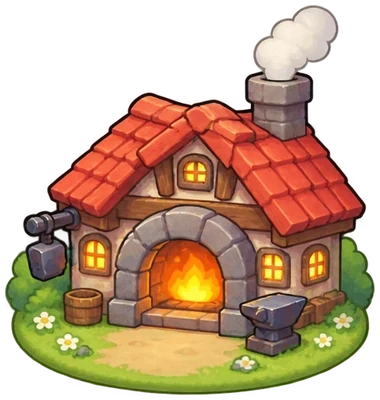
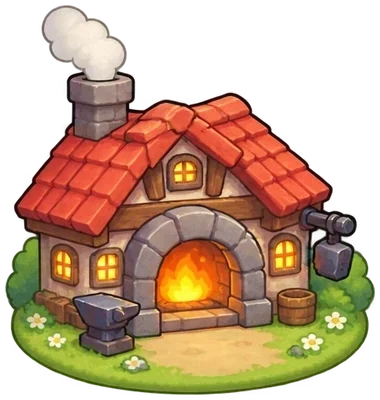
[Style] Village Buildings One-Third Size, Flip Hearth And Mine
Claude-Session: https://claude.ai/code/session_01CpQy9VtBa6mJVcF3Go5toG

diff --git a/index.html b/index.html
@@ -1295,15 +1295,15 @@
   /* (관리자 시험) 정령 마을 · 광산 */
   .vl-title{display:flex; align-items:center; gap:8px; margin:2px 0 8px;} .vl-title b{font-size:20px;} .vl-test{font-size:10px; font-weight:800; color:#ffb057; border:1px solid #ffb05766; border-radius:999px; padding:1px 7px;}
   .vl-town{position:relative; aspect-ratio:3/4; border-radius:20px; overflow:hidden; border:2px solid var(--line); box-shadow:inset 0 2px 0 #ffffff14, 0 4px 0 #0000004d; background:#7cc36a url(assets/village/vl_bg.webp) center/cover no-repeat;}
-  .vl-bld{position:absolute; width:44%; display:flex; flex-direction:column; align-items:center; cursor:pointer; -webkit-tap-highlight-color:transparent;}
+  .vl-bld{position:absolute; width:15%; display:flex; flex-direction:column; align-items:center; cursor:pointer; -webkit-tap-highlight-color:transparent;}
   .vl-img{width:100%; height:auto; display:block; filter:drop-shadow(0 3px 2px #0005); pointer-events:none;} .vl-bld:not(.lock):active .vl-img{transform:scale(.96);}
   .vl-bld.lock{cursor:default;}
-  .vl-sign{margin-top:-10px; position:relative; padding:2px 9px; border-radius:8px; background:#fff6dc; color:#4a3220; border:2px solid #6a4a2a; font-size:12px; font-weight:800; white-space:nowrap; box-shadow:0 2px 0 #0004; display:flex; align-items:center; gap:3px;}
-  .vl-sign i{font-style:normal; color:#b4572a; font-size:11px;} .vl-sign .uic{width:15px !important; height:15px !important;}
+  .vl-sign{margin-top:-4px; position:relative; padding:1px 6px; border-radius:7px; background:#fff6dc; color:#4a3220; border:2px solid #6a4a2a; font-size:10.5px; font-weight:800; white-space:nowrap; box-shadow:0 2px 0 #0004; display:flex; align-items:center; gap:2px;}
+  .vl-sign i{font-style:normal; color:#b4572a; font-size:10px;} .vl-sign .uic{width:13px !important; height:13px !important;}
   .vl-bld.lock .vl-sign{background:#e6e0d0; color:#6a6050; border-color:#8a8070;}
-  .vl-st{margin-top:2px; font-size:10.5px; font-weight:800; color:#fff; text-shadow:0 1px 2px #000, 0 0 3px #000;}
-  .vl-bub{position:absolute; top:-6%; left:50%; z-index:2; width:34px; height:34px; margin-left:-17px; border-radius:50% 50% 50% 8%; transform:rotate(-45deg); background:#fff; border:2px solid #4a3220; display:flex; align-items:center; justify-content:center; font-size:17px; box-shadow:0 3px 0 #0005; animation:vlBob 1.4s ease-in-out infinite;}
-  .vl-bub > *{transform:rotate(45deg);} .vl-bub{line-height:1;} .vl-bub .uic{width:20px !important; height:20px !important;}
+  .vl-st{margin-top:1px; font-size:10px; white-space:nowrap; font-weight:800; color:#fff; text-shadow:0 1px 2px #000, 0 0 3px #000;}
+  .vl-bub{position:absolute; top:-30px; left:50%; z-index:2; width:28px; height:28px; margin-left:-14px; border-radius:50% 50% 50% 8%; transform:rotate(-45deg); background:#fff; border:2px solid #4a3220; display:flex; align-items:center; justify-content:center; font-size:17px; box-shadow:0 3px 0 #0005; animation:vlBob 1.4s ease-in-out infinite;}
+  .vl-bub > *{transform:rotate(45deg);} .vl-bub{line-height:1;} .vl-bub .uic{width:17px !important; height:17px !important;}
   .vl-bub.hot{background:#ffe27a; border-color:#a8641c;}
   @keyframes vlBob{0%,100%{translate:0 0} 50%{translate:0 -5px}}
   .vl-all{display:flex; align-items:center; justify-content:space-between; gap:10px; margin-top:12px;} .vl-all-rw{margin-top:4px; font-size:13px; font-weight:700; white-space:nowrap;} .vl-all > div{min-width:0;} .vl-all .btn{width:auto; flex:0 0 auto; padding-left:22px; padding-right:22px;}
@@ -11732,12 +11732,12 @@ function renderVillageTab(){
   const m = vmState(), s = hearthSparks(), all = vlAllRw(), any = s>0 || m.cart>0, hLv = Object.keys(HEARTH_UPGRADES).reduce((a,k)=>a+hearthUpgradeLevel(k), 0);
   let h = '<div class="vl-title"><b>정령 마을</b><span class="vl-test">관리자 시험 중</span></div>';
   h += '<div class="vl-town">';
-  h += vlBld({ k:'hearth', x:4, y:8, svg:'hearth', sign:uiIc('hearth')+' 화로 <i>Lv.'+hLv+'</i>', st:'불씨 '+s+'/'+HEARTH_MAX(),
+  h += vlBld({ k:'hearth', x:17, y:17, svg:'hearth', sign:uiIc('hearth')+' 화로 <i>Lv.'+hLv+'</i>', st:'불씨 '+s+'/'+HEARTH_MAX(),
     bub: s>0 ? { ic:'<img class="uic" src="assets/ui/ic_essence.webp" alt="">', col:true, hot:s>=HEARTH_MAX() } : null });
-  h += vlBld({ k:'mine', x:53, y:9, svg:'mine', sign:uiIc('pick')+' 광산 <i>B'+m.d+'</i>', st:'기력 '+m.e+'/'+vmMaxE(m),
+  h += vlBld({ k:'mine', x:68, y:17, svg:'mine', sign:uiIc('pick')+' 광산 <i>B'+m.d+'</i>', st:'기력 '+m.e+'/'+vmMaxE(m),
     bub: m.cart>0 ? { ic:uiIc('cart'), col:true, hot:m.cart>=VM_CART_MAX } : (m.e>=vmMaxE(m) ? { ic:uiIc('pick'), hot:true } : null) });
-  h += vlBld({ k:'lodge', x:4, y:55, svg:'build', sign:'🔒 정령 숙소', st:'준비 중', lock:true });
-  h += vlBld({ k:'work', x:53, y:55, svg:'build', sign:'🔒 작업장', st:'준비 중', lock:true });
+  h += vlBld({ k:'lodge', x:17, y:64, svg:'build', sign:'🔒 정령 숙소', st:'준비 중', lock:true });
+  h += vlBld({ k:'work', x:68, y:64, svg:'build', sign:'🔒 작업장', st:'준비 중', lock:true });
   h += '</div>';
   h += '<div class="card vl-all"><div><div class="ttl">모두 거두기</div><div class="vl-all-rw">'+(any ? vmRwText(all) : '<span class="sub">거둘 것 없음</span>')+'</div></div>'
     + '<button class="btn" id="vlAllBtn" '+(any ? '' : 'disabled')+'>거두기</button></div>';
